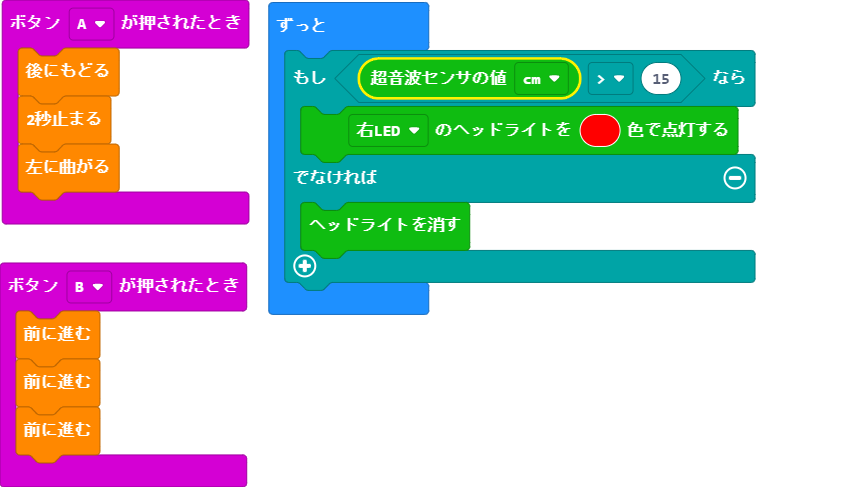
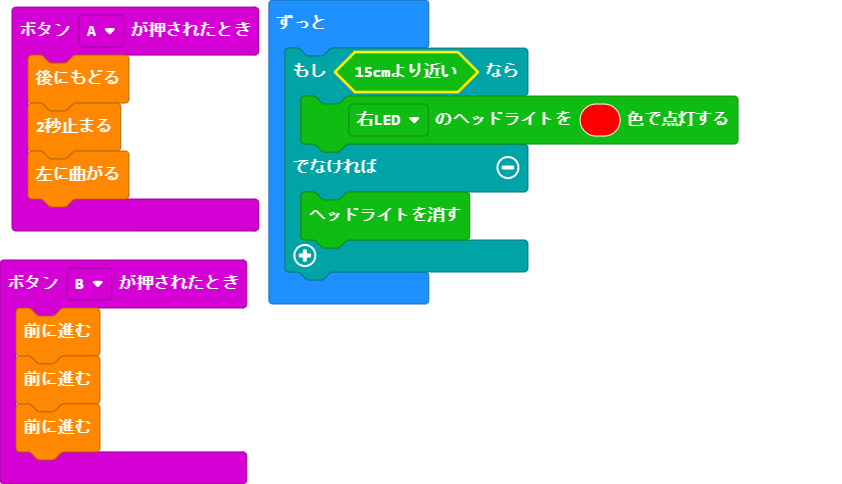
更新 main.blocks, main.ts, cutebot.ts

diff --git a/cutebot.ts b/cutebot.ts
@@ -242,6 +242,39 @@ namespace cuteBot {
             return false;
         }
     }
+
+    //% block="15cmより近い"
+    //% weight=52
+
+    export function kyori(): boolean {
+        let dis = cuteBot.ultrasonic(cuteBot.SonarUnit.Centimeters)
+        if (dis < 15 && dis > 2) {
+            return true;
+        }
+        else {
+            return false;
+        }
+
+    }
+
+
+    //% block="30cmより近い"
+    //% weight=51
+
+    export function kyori2(): boolean {
+        let dis = cuteBot.ultrasonic(cuteBot.SonarUnit.Centimeters)
+        if (dis < 30 && dis > 2) {
+            return true;
+        }
+        else {
+            return false;
+        }
+
+    }
+
+
+
+
     /**
     * Cars can extend the ultrasonic function to prevent collisions and other functions.. 
     * @param Sonarunit two states of ultrasonic module, eg: Centimeters

diff --git a/main.ts b/main.ts
@@ -9,7 +9,7 @@ input.onButtonPressed(Button.B, function () {
     custom.foo()
 })
 basic.forever(function () {
-    if (cuteBot.ultrasonic(cuteBot.SonarUnit.Centimeters) > 15) {
+    if (cuteBot.kyori()) {
         cuteBot.colorLight(cuteBot.RGBLights.RGB_L, 0xff0000)
     } else {
         cuteBot.closeheadlights()
